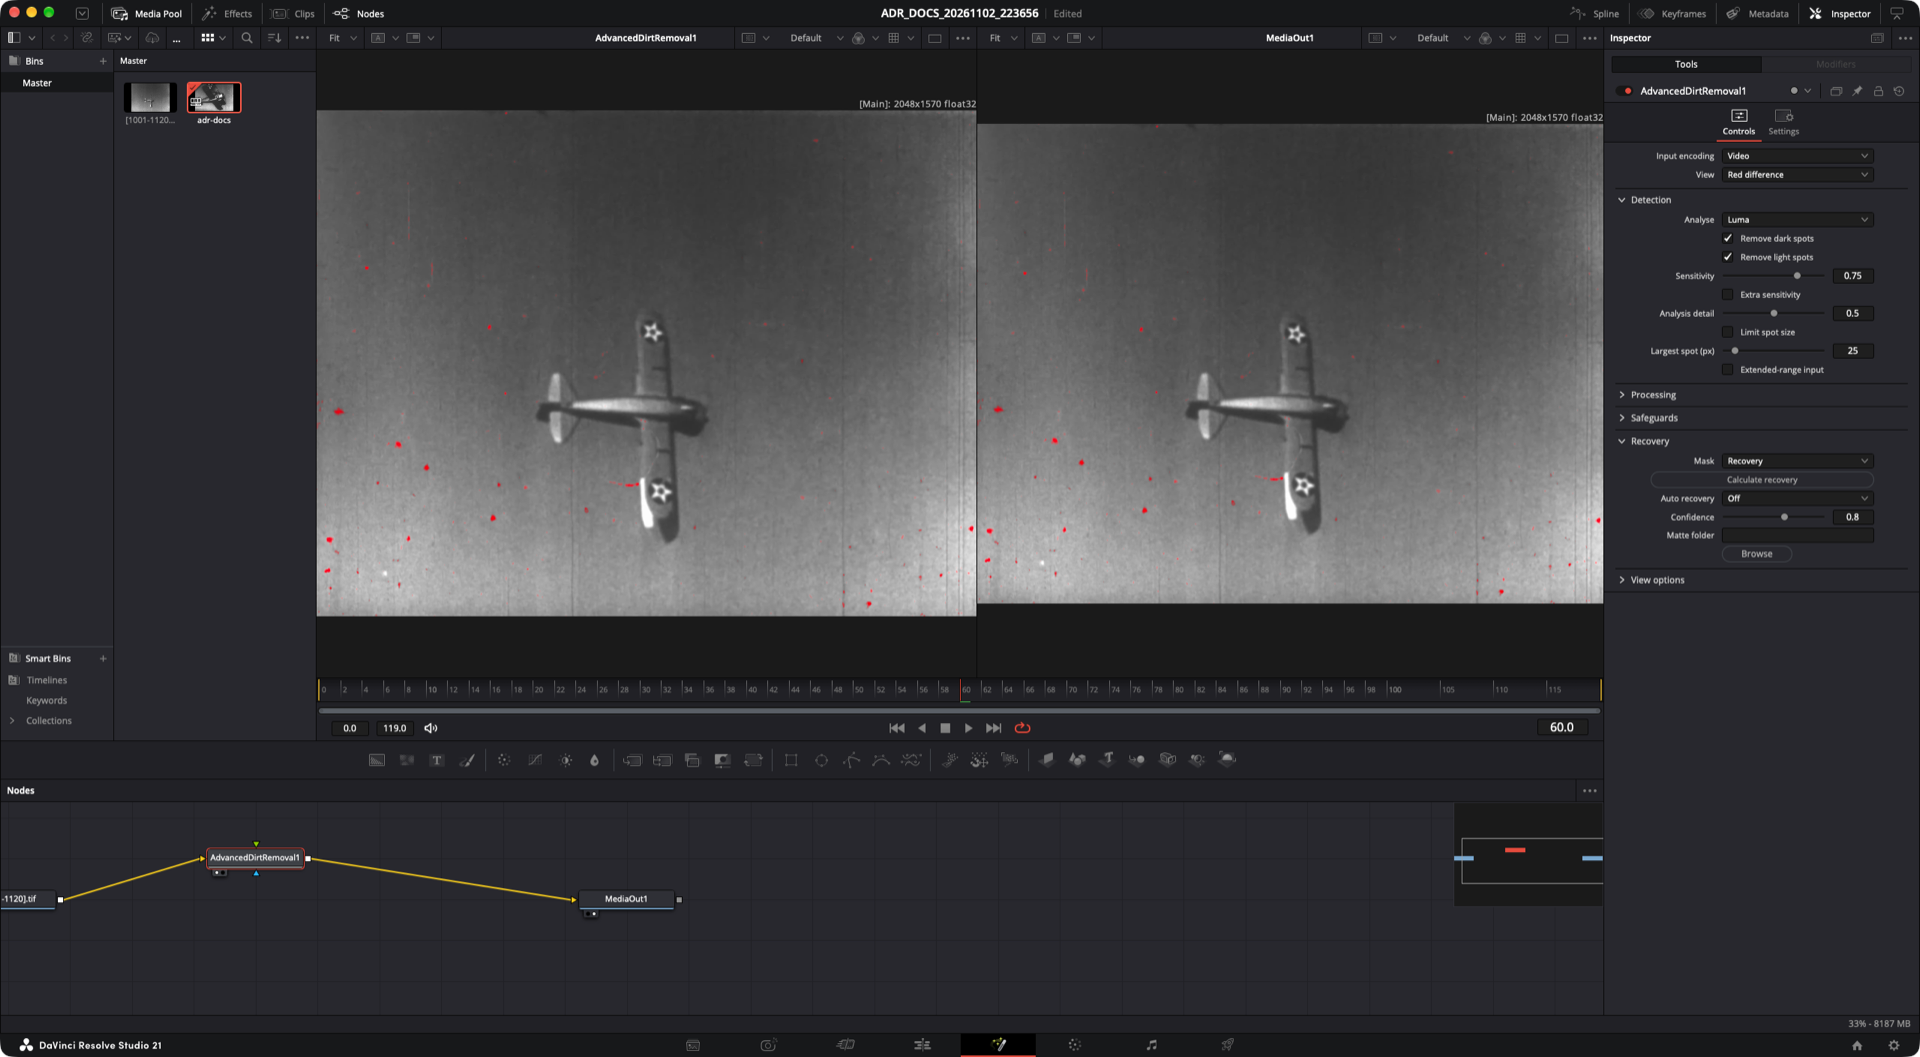
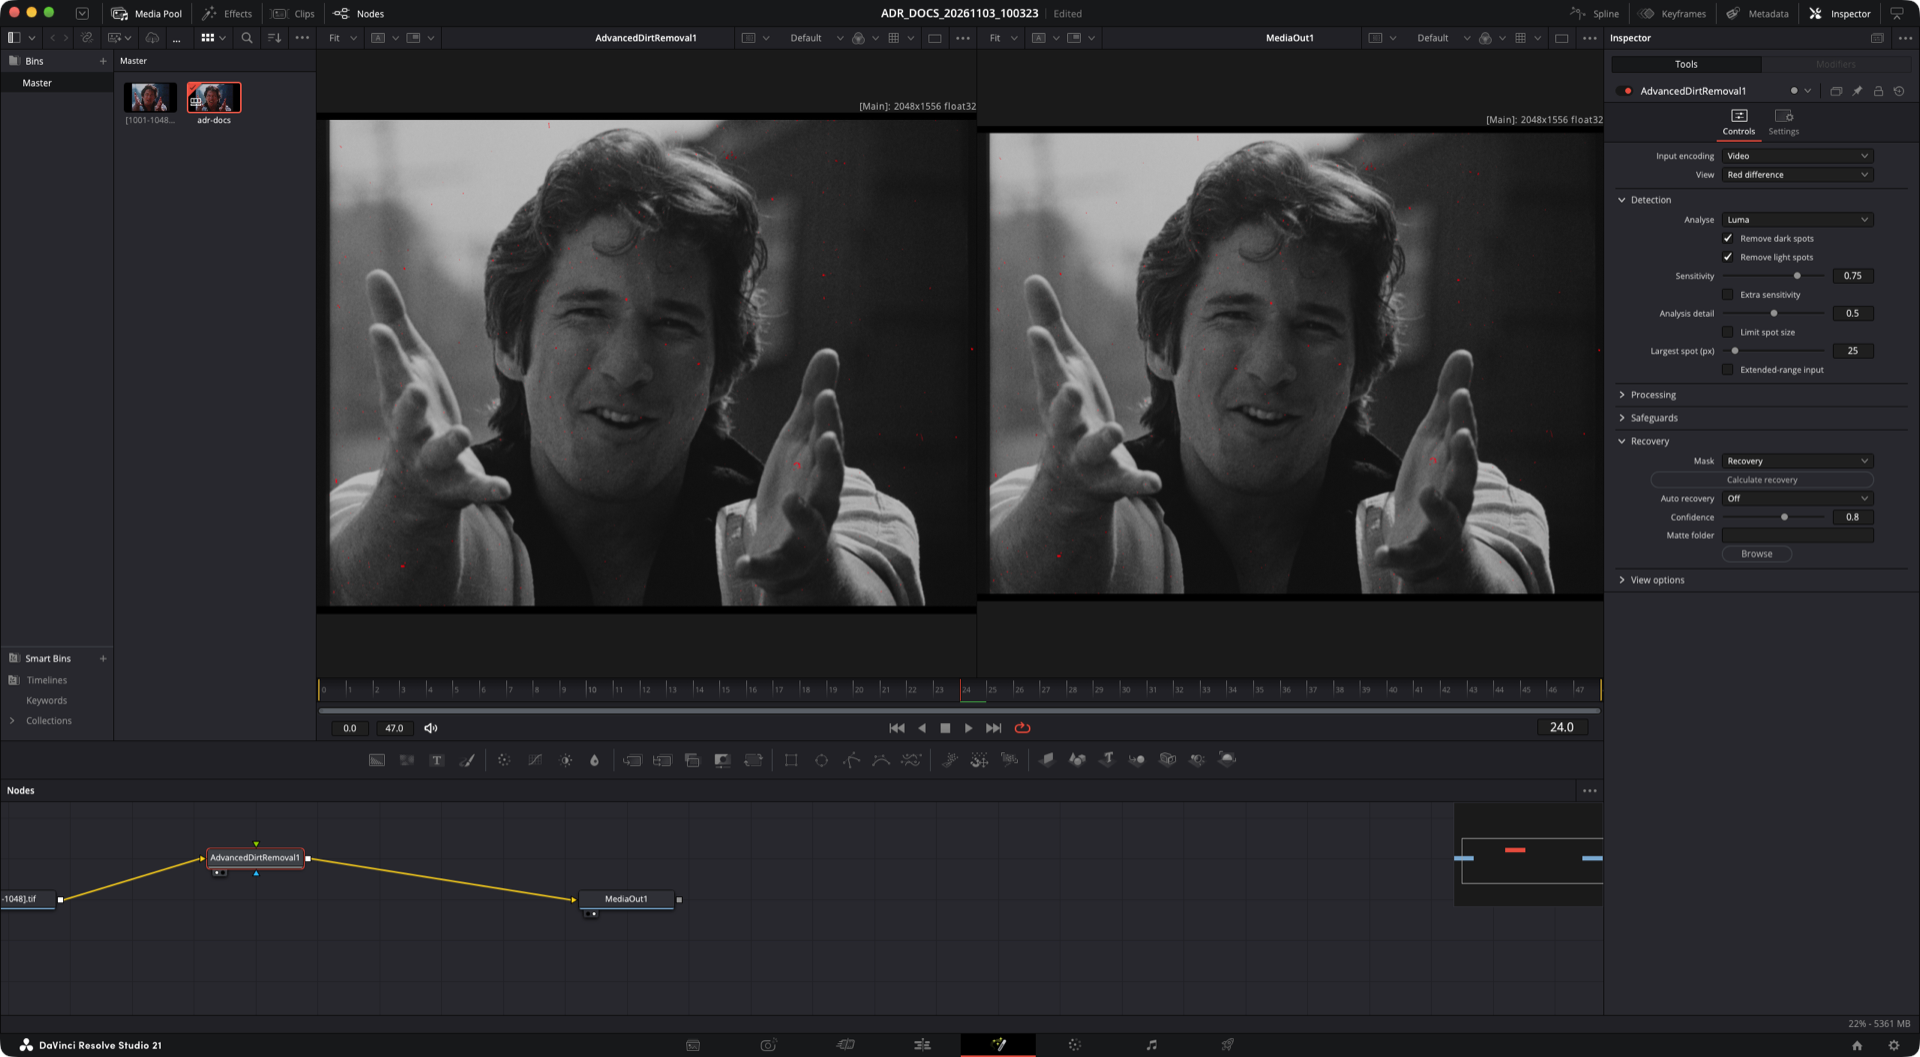
Resolve screenshots with the Breathless trailer
Retaken on macOS with the installed 2.0.0 plugin in Resolve Studio
21.1.1.10 (Fusion page): Restored view with the controls, and Red
difference. Window-only captures; the test project was deleted afterwards.

Changed region(s): [[0.1562, 0.0937, 0.8438, 0.5932], [0.0625, 0.0624, 0.125, 0.1249], [0.5, 0.0, 0.5312, 0.0312]]

diff --git a/assets/documentation/README.md b/assets/documentation/README.md
@@ -5,7 +5,7 @@
 | Footage | Used for | Source |
 | --- | --- | --- |
 | Trailer for *The Evictors* (1979), shown with *Island of Death* | Before/after wipe, Mask, the 1:1 detail still | 35mm trailer scan, 2048 × 1556, 10-bit ProRes, from Fabio Bedoya's film trailer collection |
-| Trailer for *Breathless* (1983), Richard Gere | Red difference GIF and still, both videos | 35mm trailer scan, 2048 × 1556, 10-bit ProRes, from the same collection |
+| Trailer for *Breathless* (1983), Richard Gere | Red difference GIF and still, both videos, the Resolve screenshots | 35mm trailer scan, 2048 × 1556, 10-bit ProRes, from the same collection |
 | *Neighbors* (1920), Buster Keaton and Edward F. Cline | Auto recovery | Wikimedia Commons, public domain: https://commons.wikimedia.org/wiki/File:Neighbors_(1920)_by_Buster_Keaton_and_Edward_F._Cline.webm |
 
 The *Neighbors* file is a compressed web copy at 3840 × 2160, scaled to
@@ -51,10 +51,9 @@ The GIFs are crops at 10 frames per second: the trailer GIFs at 960 wide
 The screenshots are from macOS only. Resolve and the plugin's controls look
 the same on Windows and Linux. The `macos-resolve-2.0-*` screenshots are
 unedited captures of Resolve's window only (scaled to 1920 wide), taken on
-2 November 2026 with the installed 2.0.0 package in Resolve Studio 21.1.1.10.
+3 November 2026 with the installed 2.0.0 package in Resolve Studio 21.1.1.10.
 They use a throwaway test project in the local database, deleted afterwards.
-Their clip is *The History of Naval Aviation* (1943), a US Navy film on
-Wikimedia Commons.
+Their clip is 48 frames of the *Breathless* close-up.
 
 The `resolve-2.0-*` screenshots show the engine's synthetic test clip (seed 11,
 512 × 512, frame 5): the interface, not picture quality.

diff --git a/README.md b/README.md
@@ -131,9 +131,9 @@ workflow and the views.
 
 ![Advanced Dirt Removal 2.0 in Resolve's Fusion page on macOS](assets/documentation/macos-resolve-2.0-restored.png)
 
-The plugin in DaVinci Resolve Studio 21.1 on macOS, Fusion page, with an
-earlier public-domain test clip: the effect's output on the left, its controls
-on the right.
+The plugin in DaVinci Resolve Studio 21.1 on macOS, Fusion page, with the
+*Breathless* trailer: the effect's output on the left, its controls on the
+right.
 [Red difference in Resolve](assets/documentation/macos-resolve-2.0-red-difference.png).
 The screenshots are from macOS. Resolve and the plugin's controls look the
 same on Windows and Linux.
